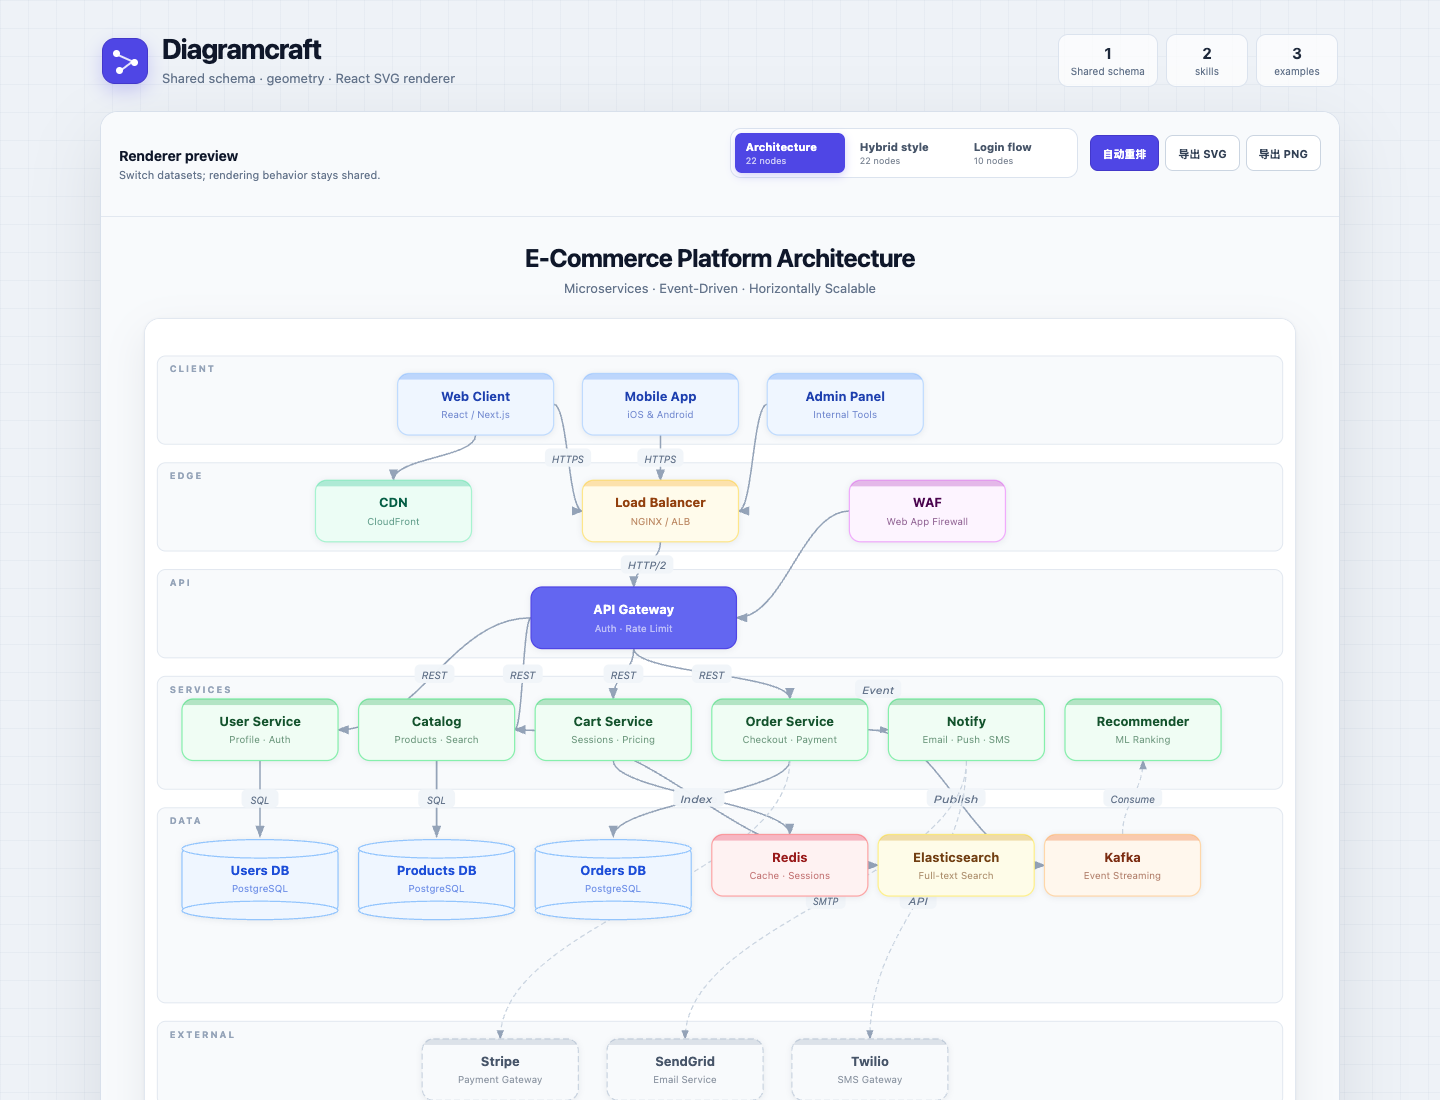
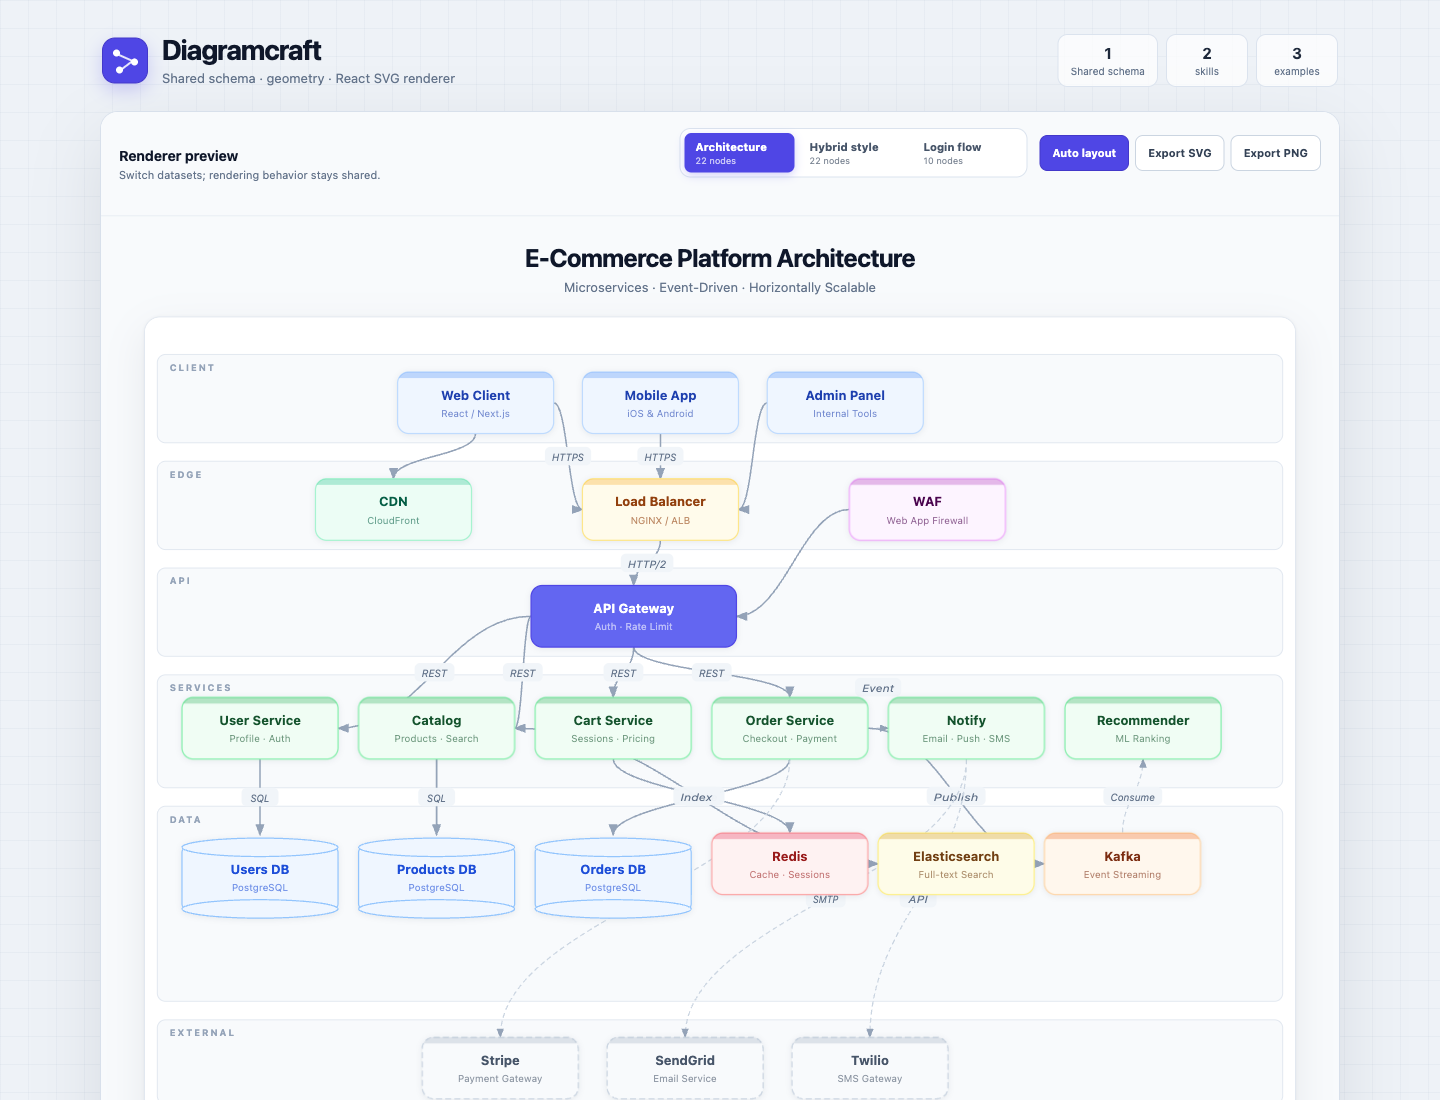
docs: use English copy in preview images

diff --git a/examples/diagrams.js b/examples/diagrams.js
@@ -138,42 +138,42 @@ export const ARCH_FLOWCHART_STYLE = {
 
 export const LOGIN_FLOW = {
   kind: "flowchart",
-  title: "用户登录流程",
-  subtitle: "含格式校验 · 身份认证 · Token 生成",
+  title: "User Login Flow",
+  subtitle: "Format Validation · Authentication · Token Generation",
   width: 700,
   height: 900,
   nodes: [
-    { id: "start", label: "开始", type: "terminal", x: 280, y: 40 },
-    { id: "input", label: "输入账号密码", type: "data", x: 260, y: 140 },
-    { id: "valid", label: "格式校验", type: "decision", x: 255, y: 244 },
-    { id: "err1", label: "提示格式错误", type: "error", x: 480, y: 264 },
-    { id: "auth", label: "身份认证", type: "process", x: 260, y: 384 },
-    { id: "check", label: "认证通过？", type: "decision", x: 255, y: 484 },
-    { id: "err2", label: "提示账号错误", type: "error", x: 480, y: 504 },
-    { id: "token", label: "生成 Token", type: "sub", x: 260, y: 624 },
-    { id: "home", label: "跳转首页", type: "highlight", x: 260, y: 724 },
-    { id: "end", label: "结束", type: "terminal", x: 280, y: 820 },
+    { id: "start", label: "Start", type: "terminal", x: 280, y: 40 },
+    { id: "input", label: "Enter credentials", type: "data", x: 260, y: 140 },
+    { id: "valid", label: "Valid format?", type: "decision", x: 255, y: 244 },
+    { id: "err1", label: "Format error", type: "error", x: 480, y: 264 },
+    { id: "auth", label: "Authenticate", type: "process", x: 260, y: 384 },
+    { id: "check", label: "Authenticated?", type: "decision", x: 255, y: 484 },
+    { id: "err2", label: "Account error", type: "error", x: 480, y: 504 },
+    { id: "token", label: "Generate token", type: "sub", x: 260, y: 624 },
+    { id: "home", label: "Open dashboard", type: "highlight", x: 260, y: 724 },
+    { id: "end", label: "End", type: "terminal", x: 280, y: 820 },
   ],
   edges: [
     { from: "start", to: "input" },
     { from: "input", to: "valid" },
-    { from: "valid", to: "auth", label: "通过" },
-    { from: "valid", to: "err1", label: "失败" },
+    { from: "valid", to: "auth", label: "Valid" },
+    { from: "valid", to: "err1", label: "Invalid" },
     { from: "err1", to: "input" },
     { from: "auth", to: "check" },
-    { from: "check", to: "token", label: "是" },
-    { from: "check", to: "err2", label: "否" },
+    { from: "check", to: "token", label: "Yes" },
+    { from: "check", to: "err2", label: "No" },
     { from: "err2", to: "input" },
     { from: "token", to: "home" },
     { from: "home", to: "end" },
   ],
   legend: [
-    { type: "terminal", label: "开始/结束" },
-    { type: "process", label: "流程步骤" },
-    { type: "decision", label: "判断节点" },
-    { type: "data", label: "数据输入" },
-    { type: "sub", label: "子流程" },
-    { type: "highlight", label: "关键步骤" },
-    { type: "error", label: "错误处理" },
+    { type: "terminal", label: "Start / End" },
+    { type: "process", label: "Process" },
+    { type: "decision", label: "Decision" },
+    { type: "data", label: "Data input" },
+    { type: "sub", label: "Subprocess" },
+    { type: "highlight", label: "Key step" },
+    { type: "error", label: "Error handling" },
   ],
 };

diff --git a/src/App.js b/src/App.js
@@ -35,8 +35,8 @@ export function setExampleOverride(overrides, id, diagram) {
 }
 
 export function formatActionError(error) {
-  if (error instanceof Error) return error.message || "未知错误";
-  if (error === null || error === undefined || error === "") return "未知错误";
+  if (error instanceof Error) return error.message || "Unknown error";
+  if (error === null || error === undefined || error === "") return "Unknown error";
   return String(error);
 }
 
@@ -126,16 +126,16 @@ export default function App() {
     invalidatePngRequest();
     if (hasOverride) {
       setOverrides((current) => setExampleOverride(current, active.id, null));
-      setStatus("已恢复原布局");
+      setStatus("Original layout restored");
       return;
     }
 
     try {
       const diagram = layoutDiagram(active.diagram, { mode: "force" });
       setOverrides((current) => setExampleOverride(current, active.id, diagram));
-      setStatus("已完成自动重排");
+      setStatus("Auto layout complete");
     } catch (error) {
-      setStatus(`自动重排失败：${formatActionError(error)}`);
+      setStatus(`Auto layout failed: ${formatActionError(error)}`);
     }
   };
 
@@ -143,9 +143,9 @@ export default function App() {
     invalidatePngRequest();
     try {
       downloadDiagramSvg(visibleDiagram);
-      setStatus("SVG 已导出");
+      setStatus("SVG exported");
     } catch (error) {
-      setStatus(`SVG 导出失败：${formatActionError(error)}`);
+      setStatus(`SVG export failed: ${formatActionError(error)}`);
     }
   };
 
@@ -153,15 +153,15 @@ export default function App() {
     const requestToken = actionRequestRef.current + 1;
     actionRequestRef.current = requestToken;
     setPngBusy(true);
-    setStatus("PNG 正在导出…");
+    setStatus("Exporting PNG…");
     try {
       await downloadDiagramPng(visibleDiagram);
       if (isCurrentActionRequest(actionRequestRef.current, requestToken, mountedRef.current)) {
-        setStatus("PNG 已导出");
+        setStatus("PNG exported");
       }
     } catch (error) {
       if (isCurrentActionRequest(actionRequestRef.current, requestToken, mountedRef.current)) {
-        setStatus(`PNG 导出失败：${formatActionError(error)}`);
+        setStatus(`PNG export failed: ${formatActionError(error)}`);
       }
     } finally {
       if (isCurrentActionRequest(actionRequestRef.current, requestToken, mountedRef.current)) {
@@ -187,14 +187,14 @@ export default function App() {
             key: "actions",
           }, [
             h("button", { type: "button", onClick: toggleLayout, key: "layout" },
-              hasOverride ? "恢复原布局" : "自动重排"),
-            h("button", { type: "button", onClick: exportSvg, key: "svg" }, "导出 SVG"),
+              hasOverride ? "Restore layout" : "Auto layout"),
+            h("button", { type: "button", onClick: exportSvg, key: "svg" }, "Export SVG"),
             h("button", {
               type: "button",
               onClick: exportPng,
               disabled: pngBusy,
               key: "png",
-            }, "导出 PNG"),
+            }, "Export PNG"),
           ]),
           h("p", {
             className: "action-status",

diff --git a/src/diagram/DiagramRenderer.js b/src/diagram/DiagramRenderer.js
@@ -111,7 +111,7 @@ export function DiagramRenderer({
       textAlign: "center",
       fontSize: 11,
       color: TOKENS.edge,
-    } }, "点击或按 Enter 高亮关联路径 · 移动端可横向滑动") : null,
+    } }, "Select a node or press Enter to trace connections · Swipe horizontally on mobile") : null,
   ]);
 }
 

diff --git a/README.md b/README.md
@@ -96,7 +96,7 @@ const diagram = {
 };
 ```
 
-Provide `x` and `y` together to preserve a node's manual position; nodes without that pair are laid out automatically. In the preview, **自动重排** (Force layout) rearranges the whole diagram and **恢复原布局** (Restore manual) returns to the original geometry. The same prepared diagram can be downloaded as standalone SVG or 2× PNG. Machine consumers can validate data against the [Draft 2020-12 diagram schema](./schema/diagram.schema.json) before rendering.
+Provide `x` and `y` together to preserve a node's manual position; nodes without that pair are laid out automatically. In the preview, **Auto layout** rearranges the whole diagram and **Restore layout** returns to the original geometry. The same prepared diagram can be downloaded as standalone SVG or 2× PNG. Machine consumers can validate data against the [Draft 2020-12 diagram schema](./schema/diagram.schema.json) before rendering.
 
 ## Development
 